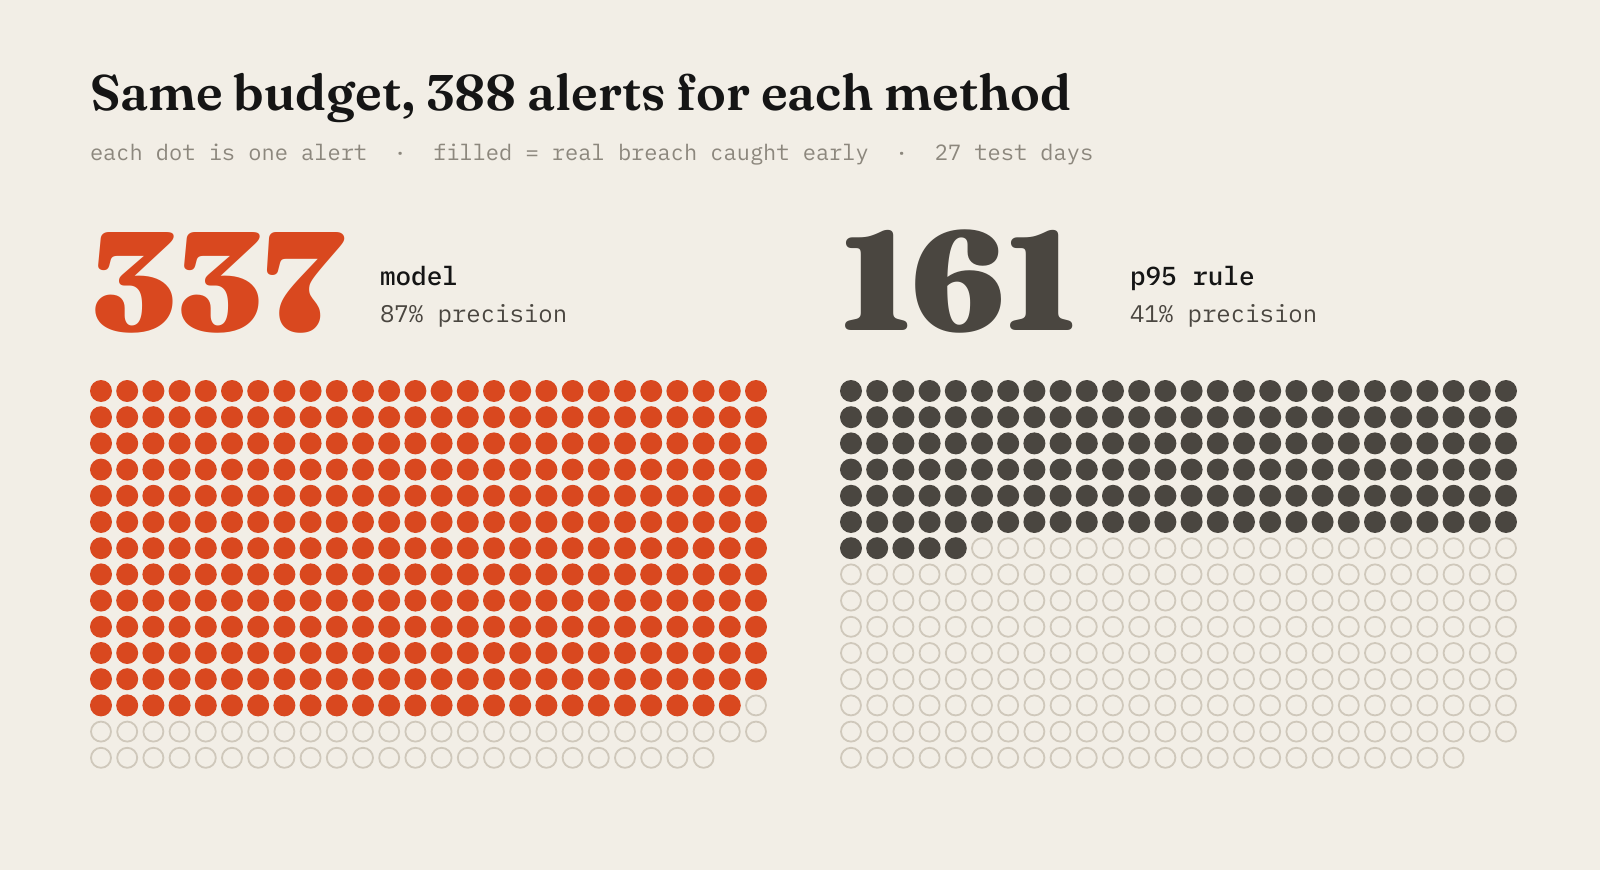
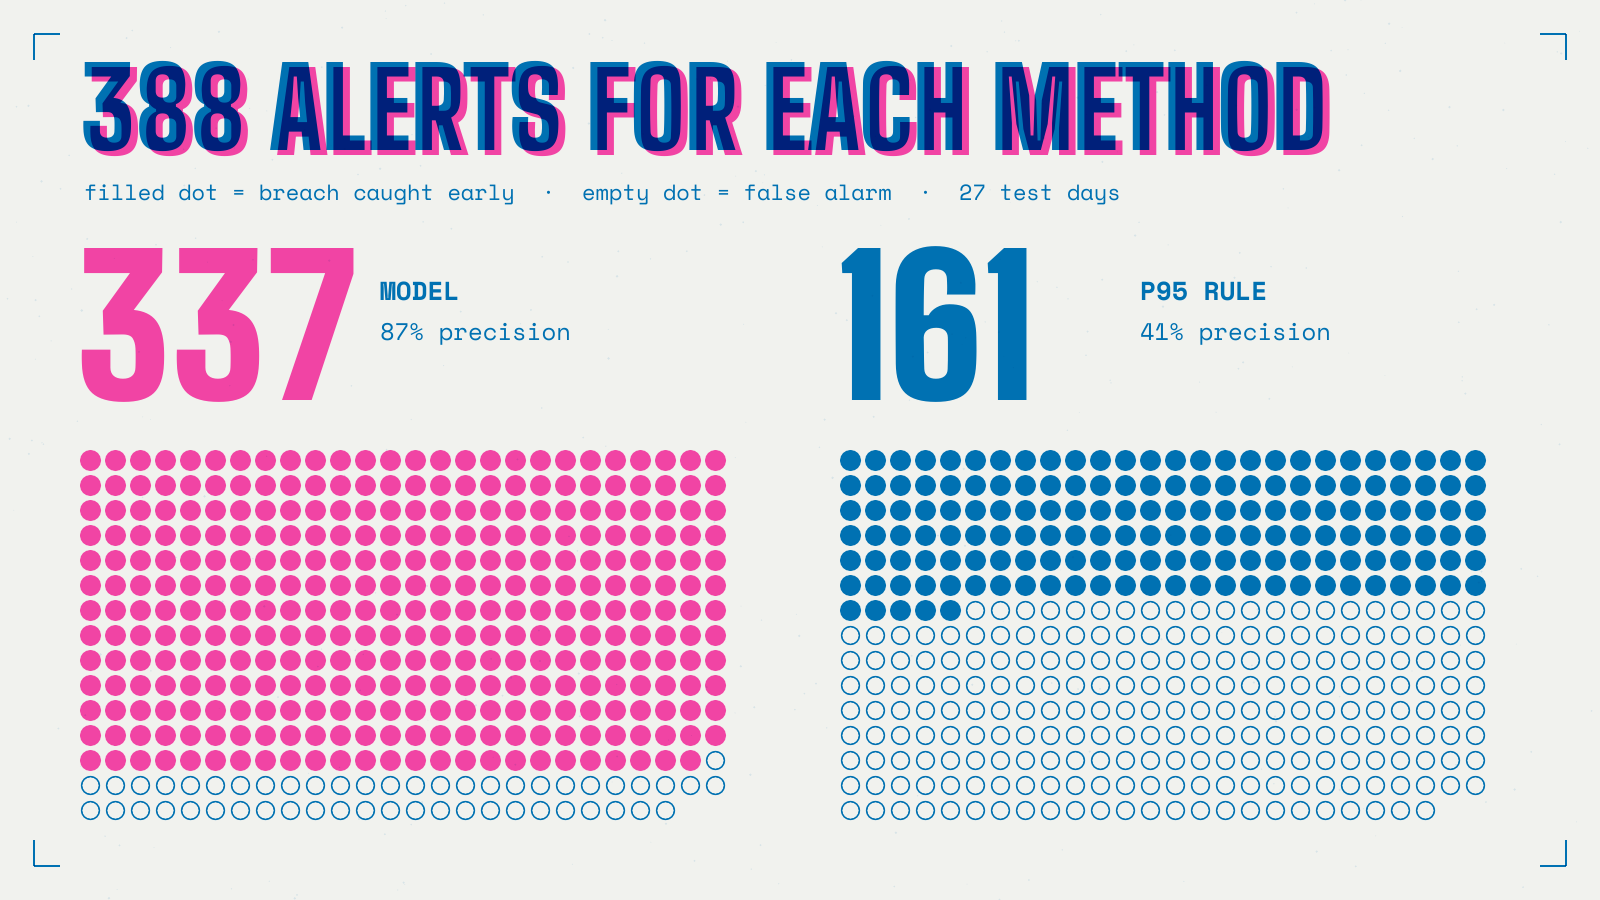
Redraw figures in two ink print style

diff --git a/docs/figures.py b/docs/figures.py
@@ -1,124 +1,190 @@
-"""Editorial figures for the article, README and model cards. Usage: python figures.py FONTDIR OUTDIR LANG"""
-import sys, os, subprocess
+"""Two ink risograph style figures for the README, cards and article. Usage: python figures.py FONTDIR OUTDIR LANG"""
+import sys, os, math, random
 from reportlab.pdfbase import pdfmetrics
 from reportlab.pdfbase.ttfonts import TTFont
+from reportlab.lib import fonts as rlfonts
+
+FD = sys.argv[1]; OUTDIR = sys.argv[2]; LANG = sys.argv[3]
+os.makedirs(OUTDIR, exist_ok=True)
+FONTS = ["BigShoulders-Black", "BigShoulders-Bold", "SpaceMono-Regular", "SpaceMono-Bold",
+         "InstrumentSans-Regular", "InstrumentSans-SemiBold", "InstrumentSans-Italic"]
+for n in FONTS:
+    pdfmetrics.registerFont(TTFont(n, os.path.join(FD, n + ".ttf")))
+pdfmetrics.registerFontFamily("InstrumentSans", normal="InstrumentSans-Regular", bold="InstrumentSans-SemiBold",
+                              italic="InstrumentSans-Italic", boldItalic="InstrumentSans-SemiBold")
+for f, b, i in [("InstrumentSans-Regular", 0, 0), ("InstrumentSans-SemiBold", 1, 0), ("InstrumentSans-Italic", 0, 1), ("InstrumentSans-SemiBold", 1, 1)]:
+    rlfonts._tt2ps_map[("instrumentsans", b, i)] = f
+    rlfonts._ps2tt_map[f.lower()] = ("instrumentsans", b, i)
+from reportlab import rl_config
+rl_config.canvas_basefontname = "InstrumentSans-Regular"
 from reportlab.pdfgen import canvas
 from reportlab.lib.colors import HexColor
+from reportlab.lib.styles import ParagraphStyle
+from reportlab.platypus import Paragraph
 
-FD, OUT, LANG = sys.argv[1], sys.argv[2], sys.argv[3]
-os.makedirs(OUT, exist_ok=True)
-for n in ["Fraunces-Black", "Fraunces-SemiBold", "Fraunces-Italic", "IBMPlexSans-Regular", "IBMPlexSans-Medium",
-          "IBMPlexMono-Regular", "IBMPlexMono-Medium"]:
-    pdfmetrics.registerFont(TTFont(n, os.path.join(FD, n + ".ttf")))
-
-PAPER = HexColor("#F2EEE6"); INK = HexColor("#151515"); SIG = HexColor("#D9481F")
-G1 = HexColor("#4A4640"); G2 = HexColor("#8C877D"); RULE = HexColor("#CFC8BB"); DARK = HexColor("#16140F")
-MUTE = HexColor("#8F887A"); TRACK = HexColor("#E6DFD2")
-PT = LANG == "pt"
-T = lambda pt, en: pt if PT else en
-num = lambda v, d=3: (("%." + str(d) + "f") % v).replace(".", ",") if PT else ("%." + str(d) + "f") % v
+W, H = 1080, 1350
+PAPER = HexColor("#F1F2EE"); BLUE = HexColor("#0078BF"); PINK = HexColor("#FF48B0")
+M = 80
+rnd = random.Random(26)
 
 
-def render(name, w, h, draw):
-    pdf = os.path.join(OUT, name + ".pdf")
-    c = canvas.Canvas(pdf, pagesize=(w, h), initialFontName="IBMPlexSans-Regular")
-    c.setAuthor("Juliano Dutra de Almeida"); c.setCreator("Juliano Dutra de Almeida"); c.setProducer("Juliano Dutra de Almeida")
-    draw(c, w, h); c.showPage(); c.save()
-    subprocess.run(["pdftoppm", "-r", "72", "-png", "-singlefile", pdf, os.path.join(OUT, name)], check=True)
-    os.remove(pdf)
+def st(size, font="InstrumentSans-Regular", color=BLUE, lead=1.34):
+    return ParagraphStyle("p%s%s%s" % (size, font, color), fontName=font, fontSize=size, leading=size * lead,
+                          textColor=color, bulletFontName=font)
 
 
-def txt(c, s, x, y, font, size, color, anchor="l"):
-    c.setFont(font, size); c.setFillColor(color)
+def para(c, text, x, ytop, w, style):
+    p = Paragraph(text, style); _, h = p.wrapOn(c, w, 3000); p.drawOn(c, x, ytop - h); return ytop - h
+
+
+def ink(c, color, alpha=1.0):
+    c.setBlendMode("Multiply"); c.setFillColor(color); c.setStrokeColor(color); c.setFillAlpha(alpha); c.setStrokeAlpha(alpha)
+
+
+def text(c, s, x, y, font, size, color, anchor="l", alpha=1.0):
+    ink(c, color, alpha); c.setFont(font, size)
     {"l": c.drawString, "r": c.drawRightString, "c": c.drawCentredString}[anchor](x, y, s)
 
 
-def cover(c, W, H):
-    c.setFillColor(DARK); c.rect(0, 0, W, H, fill=1, stroke=0)
-    M = 120
-    txt(c, T("ENGENHARIA DE DADOS  ·  DEVOPS  ·  OBSERVABILIDADE", "DATA ENGINEERING  ·  DEVOPS  ·  OBSERVABILITY"), M, H - 130, "IBMPlexMono-Regular", 24, MUTE)
-    txt(c, T("O SLA estoura antes", "Your SLA breaks before"), M, H - 300, "Fraunces-Black", 130, PAPER)
-    txt(c, T("de o job começar.", "the job even starts."), M, H - 440, "Fraunces-Black", 130, PAPER)
-    txt(c, T("Um modelo pequeno que avisa na liberação, com a folga inteira pela frente.",
-             "A small model that warns at release time, with the whole slack still ahead."), M, H - 530, "Fraunces-Italic", 44, SIG)
-    ty = 250; x0, xd, xe = M + 30, W - M - 520, W - M - 40
-    c.setStrokeColor(HexColor("#6E685C")); c.setLineWidth(4); c.line(M, ty, W - M, ty)
-    c.setFillColor(SIG); c.rect(x0, ty - 5, xd - x0, 10, fill=1, stroke=0)
-    for x, lab, col in [(x0, T("liberação", "release"), SIG), (xd, T("prazo", "deadline"), PAPER), (xe, "dashboard", MUTE)]:
-        c.setFillColor(col); c.circle(x, ty, 17, fill=1, stroke=0)
-        txt(c, lab, x, ty + 44, "IBMPlexMono-Medium", 27, col, "c")
-    txt(c, T("o modelo avisa aqui", "the model warns here"), x0 - 17, ty - 64, "IBMPlexMono-Regular", 24, SIG)
-    txt(c, T("hoje o time descobre aqui", "today the team finds out here"), xe + 17, ty - 64, "IBMPlexMono-Regular", 24, MUTE, "r")
-    txt(c, "Juliano Dutra de Almeida", M, 90, "IBMPlexMono-Medium", 26, PAPER)
+def misreg(c, s, x, y, font, size, anchor="l", dx=7, dy=-5):
+    text(c, s, x + dx, y + dy, font, size, PINK, anchor)
+    text(c, s, x, y, font, size, BLUE, anchor)
 
 
-def budget(c, W, H):
-    c.setFillColor(PAPER); c.rect(0, 0, W, H, fill=1, stroke=0)
-    M = 90
-    txt(c, T("Mesmo orçamento, 388 alertas para cada método", "Same budget, 388 alerts for each method"), M, H - 110, "Fraunces-SemiBold", 50, INK)
-    txt(c, T("cada ponto é um alerta  ·  cheio = estouro real antecipado  ·  27 dias de teste",
-             "each dot is one alert  ·  filled = real breach caught early  ·  27 test days"), M, H - 160, "IBMPlexMono-Regular", 22, G2)
-    colw = (W - 2 * M - 80) / 2
-    for j, (lab, n, col, p) in enumerate([(T("modelo", "model"), 337, SIG, 87), (T("regra do p95", "p95 rule"), 161, G1, 41)]):
-        x = M + j * (colw + 80)
-        txt(c, str(n), x, H - 330, "Fraunces-Black", 140, col)
-        txt(c, lab, x + 290, H - 285, "IBMPlexMono-Medium", 26, INK)
-        txt(c, "%d%% %s" % (p, T("de precisão", "precision")), x + 290, H - 322, "IBMPlexMono-Regular", 24, G1)
-        r, gap, cols = 11, 4.2, 26
+def halftone(c, x, y, w, h, color, step=14, rmin=1.2, rmax=6.0, angle=0, grad="none"):
+    ink(c, color); c.saveState()
+    p = c.beginPath(); p.rect(x, y, w, h); c.clipPath(p, stroke=0, fill=0)
+    cx, cy = x + w / 2, y + h / 2; a = math.radians(angle)
+    span = int(max(w, h) / step) + 4
+    for i in range(-span, span):
+        for j in range(-span, span):
+            px = cx + (i * math.cos(a) - j * math.sin(a)) * step
+            py = cy + (i * math.sin(a) + j * math.cos(a)) * step
+            if not (x - step < px < x + w + step and y - step < py < y + h + step):
+                continue
+            t = {"none": 1.0, "up": (py - y) / h, "down": 1 - (py - y) / h, "right": (px - x) / w}[grad]
+            r = rmin + (rmax - rmin) * max(0, min(1, t))
+            c.circle(px, py, r, fill=1, stroke=0)
+    c.restoreState()
+
+
+def paper(c):
+    c.setBlendMode("Normal"); c.setFillAlpha(1); c.setFillColor(PAPER); c.rect(0, 0, W, H, fill=1, stroke=0)
+    ink(c, BLUE, 0.10)
+    for _ in range(420):
+        c.circle(rnd.uniform(0, W), rnd.uniform(0, H), rnd.uniform(0.4, 1.3), fill=1, stroke=0)
+    ink(c, BLUE)
+    c.setLineWidth(1.2)
+    for (x, y, sx, sy) in [(34, 34, 1, 1), (W - 34, 34, -1, 1), (34, H - 34, 1, -1), (W - 34, H - 34, -1, -1)]:
+        c.line(x, y, x + 26 * sx, y); c.line(x, y, x, y + 26 * sy)
+
+
+def regmark(c, x, y):
+    ink(c, BLUE); c.setLineWidth(1.4); c.circle(x, y, 11, fill=0, stroke=1); c.line(x - 18, y, x + 18, y); c.line(x, y - 18, x, y + 18)
+    ink(c, PINK); c.circle(x + 2, y - 1.5, 11, fill=0, stroke=1)
+
+
+def tape(c, x, y, w, h, rot, color, label, body):
+    c.saveState(); c.translate(x, y); c.rotate(rot)
+    ink(c, color, 0.92); c.rect(0, 0, w, h, fill=1, stroke=0)
+    tc = PAPER if color == BLUE else BLUE
+    c.setBlendMode("Normal"); c.setFillAlpha(1)
+    c.setFillColor(tc); c.setFont("BigShoulders-Black", 64); c.drawString(28, h - 78, label)
+    p = Paragraph(body, st(27, color=tc, lead=1.25)); _, hh = p.wrapOn(c, w - 56, 400); p.drawOn(c, 28, h - 100 - hh)
+    c.restoreState()
+
+
+
+import subprocess
+PT = LANG == "pt"
+T = lambda a, b: a if PT else b
+num = lambda v: ("%.3f" % v).replace(".", ",") if PT else "%.3f" % v
+
+
+def paper_wh(c, w, h):
+    global W, H
+    W, H = w, h
+    paper(c)
+
+
+def render(name, w, h, fn):
+    pdf = os.path.join(OUTDIR, name + ".pdf")
+    c = canvas.Canvas(pdf, pagesize=(w, h), initialFontName="InstrumentSans-Regular")
+    for k in ("setAuthor", "setCreator", "setProducer"):
+        getattr(c, k)("Juliano Dutra de Almeida")
+    paper_wh(c, w, h); fn(c, w, h); c.showPage(); c.save()
+    subprocess.run(["pdftoppm", "-r", "72", "-png", "-singlefile", pdf, os.path.join(OUTDIR, name)], check=True)
+    os.remove(pdf)
+
+
+def cover(c, w, h):
+    halftone(c, 900, 0, 1020, 1080, PINK, step=18, rmin=0.6, rmax=8, angle=15, grad="right")
+    ink(c, PINK); c.circle(w - 330, h - 300, 230, fill=1, stroke=0)
+    lines = T(["O SLA ESTOURA", "ANTES DO JOB"], ["YOUR SLA BREAKS", "BEFORE THE JOB"])
+    for i, s in enumerate(lines):
+        misreg(c, s, 90, h - 300 - i * 230, "BigShoulders-Black", 250, dx=9, dy=-7)
+    text(c, T("COMEÇAR.", "EVEN STARTS."), 94, h - 300 - 2 * 230 + 10, "BigShoulders-Black", 200, PINK)
+    text(c, T("alerta precoce de SLA para pipelines batch  ·  modelo e dataset abertos",
+              "early warning for batch pipeline SLAs  ·  open model and dataset"), 100, 80, "SpaceMono-Bold", 26, BLUE)
+    regmark(c, w - 90, 80)
+
+
+def budget(c, w, h):
+    misreg(c, T("388 ALERTAS PARA CADA MÉTODO", "388 ALERTS FOR EACH METHOD"), 80, h - 150, "BigShoulders-Black", 110)
+    text(c, T("ponto cheio = estouro antecipado  ·  ponto vazio = alarme falso  ·  27 dias de teste",
+              "filled dot = breach caught early  ·  empty dot = false alarm  ·  27 test days"), 84, h - 200, "SpaceMono-Regular", 22, BLUE)
+    colw = (w - 160 - 80) / 2
+    for j, (lab, n, col, p) in enumerate([(T("MODELO", "MODEL"), 337, PINK, 87), (T("REGRA DO P95", "P95 RULE"), 161, BLUE, 41)]):
+        x = 80 + j * (colw + 80)
+        text(c, str(n), x - 4, h - 400, "BigShoulders-Black", 190, col)
+        text(c, lab, x + 300, h - 300, "SpaceMono-Bold", 26, BLUE)
+        text(c, "%d%% %s" % (p, T("de precisão", "precision")), x + 300, h - 340, "SpaceMono-Regular", 24, BLUE)
+        r, gap, cols = 10.5, 4.0, 26
         for i in range(388):
             row, cc = divmod(i, cols)
-            cx = x + cc * (2 * r + gap) + r; cy = H - 380 - row * (2 * r + gap) - r
+            cx = x + cc * (2 * r + gap) + r; cy = h - 450 - row * (2 * r + gap) - r
             if i < n:
-                c.setFillColor(col); c.circle(cx, cy, r, fill=1, stroke=0)
+                ink(c, col); c.circle(cx, cy, r, fill=1, stroke=0)
             else:
-                c.setStrokeColor(RULE); c.setLineWidth(1.8); c.circle(cx, cy, r - 1, fill=0, stroke=1)
+                ink(c, BLUE); c.setLineWidth(1.5); c.circle(cx, cy, r - 1.6, fill=0, stroke=1)
 
 
-def results(c, W, H):
-    c.setFillColor(PAPER); c.rect(0, 0, W, H, fill=1, stroke=0)
-    M = 90
-    txt(c, T("PR AUC no teste, com intervalo de 95%", "Test PR AUC with 95% interval"), M, H - 110, "Fraunces-SemiBold", 50, INK)
-    txt(c, T("bootstrap por dia inteiro  ·  2.920 execuções  ·  594 estouros", "whole day bootstrap  ·  2,920 runs  ·  594 breaches"), M, H - 160, "IBMPlexMono-Regular", 22, G2)
-    data = [(T("Regra do p95", "p95 rule"), .384, .355, .416, G2), (T("Regressão logística", "Logistic regression"), .804, .768, .835, G1),
-            ("Gradient boosting", .819, .781, .850, SIG)]
-    x0, x1 = M + 380, W - M; sc = lambda v: x0 + v * (x1 - x0)
-    top = H - 260; step = (top - 150) / 3
-    for g in [0, .25, .5, .75, 1]:
-        c.setStrokeColor(RULE); c.setLineWidth(1.2); c.line(sc(g), top + 10, sc(g), 130)
-        txt(c, num(g, 2), sc(g), 95, "IBMPlexMono-Regular", 20, G2, "c")
-    for i, (lab, v, lo, hi, col) in enumerate(data):
-        yc = top - i * step - step / 2
-        txt(c, lab, M, yc - 10, "IBMPlexSans-Medium", 30, INK)
-        c.setFillColor(col); c.roundRect(x0, yc - 32, sc(v) - x0, 64, 4, fill=1, stroke=0); c.rect(x0, yc - 32, 8, 64, fill=1, stroke=0)
-        c.setStrokeColor(INK); c.setLineWidth(3); c.line(sc(lo), yc, sc(hi), yc)
-        for e in (lo, hi): c.line(sc(e), yc - 14, sc(e), yc + 14)
-        if hi < .9:
-            txt(c, num(v), sc(hi) + 18, yc - 10, "IBMPlexMono-Medium", 28, INK)
+def results(c, w, h):
+    misreg(c, T("PR AUC NO TESTE", "TEST PR AUC"), 80, h - 150, "BigShoulders-Black", 120)
+    text(c, T("barra = valor  ·  traço = intervalo de 95% por bootstrap de dias  ·  594 estouros",
+              "bar = value  ·  whisker = 95% whole day bootstrap interval  ·  594 breaches"), 84, h - 200, "SpaceMono-Regular", 22, BLUE)
+    data = [(T("REGRA DO P95", "P95 RULE"), .384, .355, .416), (T("REGRESSÃO LOGÍSTICA", "LOGISTIC REGRESSION"), .804, .768, .835),
+            ("GRADIENT BOOSTING", .819, .781, .850)]
+    x0, x1 = 80, w - 80; sc = lambda v: x0 + v * (x1 - x0)
+    for i, (lab, v, lo, hi) in enumerate(data):
+        yy = h - 300 - i * 200
+        text(c, lab, x0, yy, "BigShoulders-Black", 46, BLUE)
+        text(c, num(v), x1, yy, "BigShoulders-Black", 60, PINK if i == 2 else BLUE, "r")
+        if i < 2:
+            halftone(c, x0, yy - 130, sc(v) - x0, 95, BLUE, step=11, rmin=3.2 if i else 1.8, rmax=3.2 if i else 1.8)
         else:
-            txt(c, num(v), sc(lo) - 18, yc - 10, "IBMPlexMono-Medium", 28, PAPER, "r")
+            ink(c, PINK); c.rect(x0, yy - 130, sc(v) - x0, 95, fill=1, stroke=0)
+            ink(c, BLUE); c.setLineWidth(1.4); c.rect(x0 + 8, yy - 138, sc(v) - x0, 95, fill=0, stroke=1)
+        ink(c, BLUE); c.setLineWidth(4); c.line(sc(lo), yy - 82, sc(hi), yy - 82)
+        for e in (lo, hi): c.line(sc(e), yy - 100, sc(e), yy - 64)
 
 
-def causes(c, W, H):
-    c.setFillColor(PAPER); c.rect(0, 0, W, H, fill=1, stroke=0)
-    M = 90
-    txt(c, T("Recall por causa do estouro", "Recall by breach root cause"), M, H - 110, "Fraunces-SemiBold", 50, INK)
-    txt(c, T("no limiar de 80% de precisão escolhido na validação", "at the 80% precision threshold chosen on validation"), M, H - 160, "IBMPlexMono-Regular", 22, G2)
-    rows = [(T("atraso upstream", "upstream delay"), 89, 142), (T("pico de volume", "volume spike"), 65, 198), (T("contenção do cluster", "cluster contention"), 41, 169),
-            (T("skew de dados", "data skew"), 15, 59), (T("preempção spot", "spot preemption"), 15, 26)]
-    bx = M + 430; bw = W - M - 140 - bx; y = H - 260
-    for lab, v, n in rows:
-        col = INK if v >= 40 else SIG
-        txt(c, lab, M, y - 12, "IBMPlexSans-Medium", 30, INK)
-        txt(c, "n=%d" % n, bx - 30, y - 12, "IBMPlexMono-Regular", 20, G2, "r")
-        c.setFillColor(TRACK); c.rect(bx, y - 22, bw, 40, fill=1, stroke=0)
-        c.setFillColor(col); c.rect(bx, y - 22, bw * v / 100, 40, fill=1, stroke=0)
-        txt(c, "%d%%" % v, W - M, y - 12, "IBMPlexMono-Medium", 30, INK, "r")
-        y -= 118
-    txt(c, T("vermelho: causas que não dão sinal antes de o job começar", "red: causes with no signal before the job starts"), M, 70, "IBMPlexMono-Regular", 22, SIG)
+def causes(c, w, h):
+    misreg(c, T("O QUE ELE NÃO ENXERGA", "WHAT IT CANNOT SEE"), 80, h - 150, "BigShoulders-Black", 120)
+    text(c, T("recall por causa do estouro no limiar de 80% de precisão", "recall by breach root cause at the 80% precision threshold"), 84, h - 200, "SpaceMono-Regular", 22, BLUE)
+    rows = [(T("atraso upstream", "upstream delay"), 89), (T("pico de volume", "volume spike"), 65), (T("contenção", "contention"), 41),
+            (T("skew de dados", "data skew"), 15), (T("preempção spot", "spot preemption"), 15)]
+    y = h - 290; bx = 80 + 420; bw = w - 80 - bx - 140
+    for lab, v in rows:
+        text(c, lab, 80, y - 36, "InstrumentSans-SemiBold", 36, BLUE)
+        ink(c, BLUE); c.setLineWidth(2); c.rect(bx, y - 56, bw, 52, fill=0, stroke=1)
+        ink(c, BLUE if v >= 40 else PINK); c.rect(bx, y - 56, bw * v / 100, 52, fill=1, stroke=0)
+        text(c, "%d%%" % v, w - 80, y - 50, "BigShoulders-Black", 60, PINK if v < 40 else BLUE, "r")
+        y -= 104
 
 
 render("cover" if PT else "cover-en", 1920, 1080, cover)
-render("fig-orcamento" if PT else "fig-budget", 1600, 870, budget)
+render("fig-orcamento" if PT else "fig-budget", 1600, 900, budget)
 render("fig-resultados" if PT else "fig-results", 1600, 900, results)
 render("fig-causas" if PT else "fig-causes", 1600, 900, causes)
-print(sorted(os.listdir(OUT)))
+print(sorted(os.listdir(OUTDIR)))
